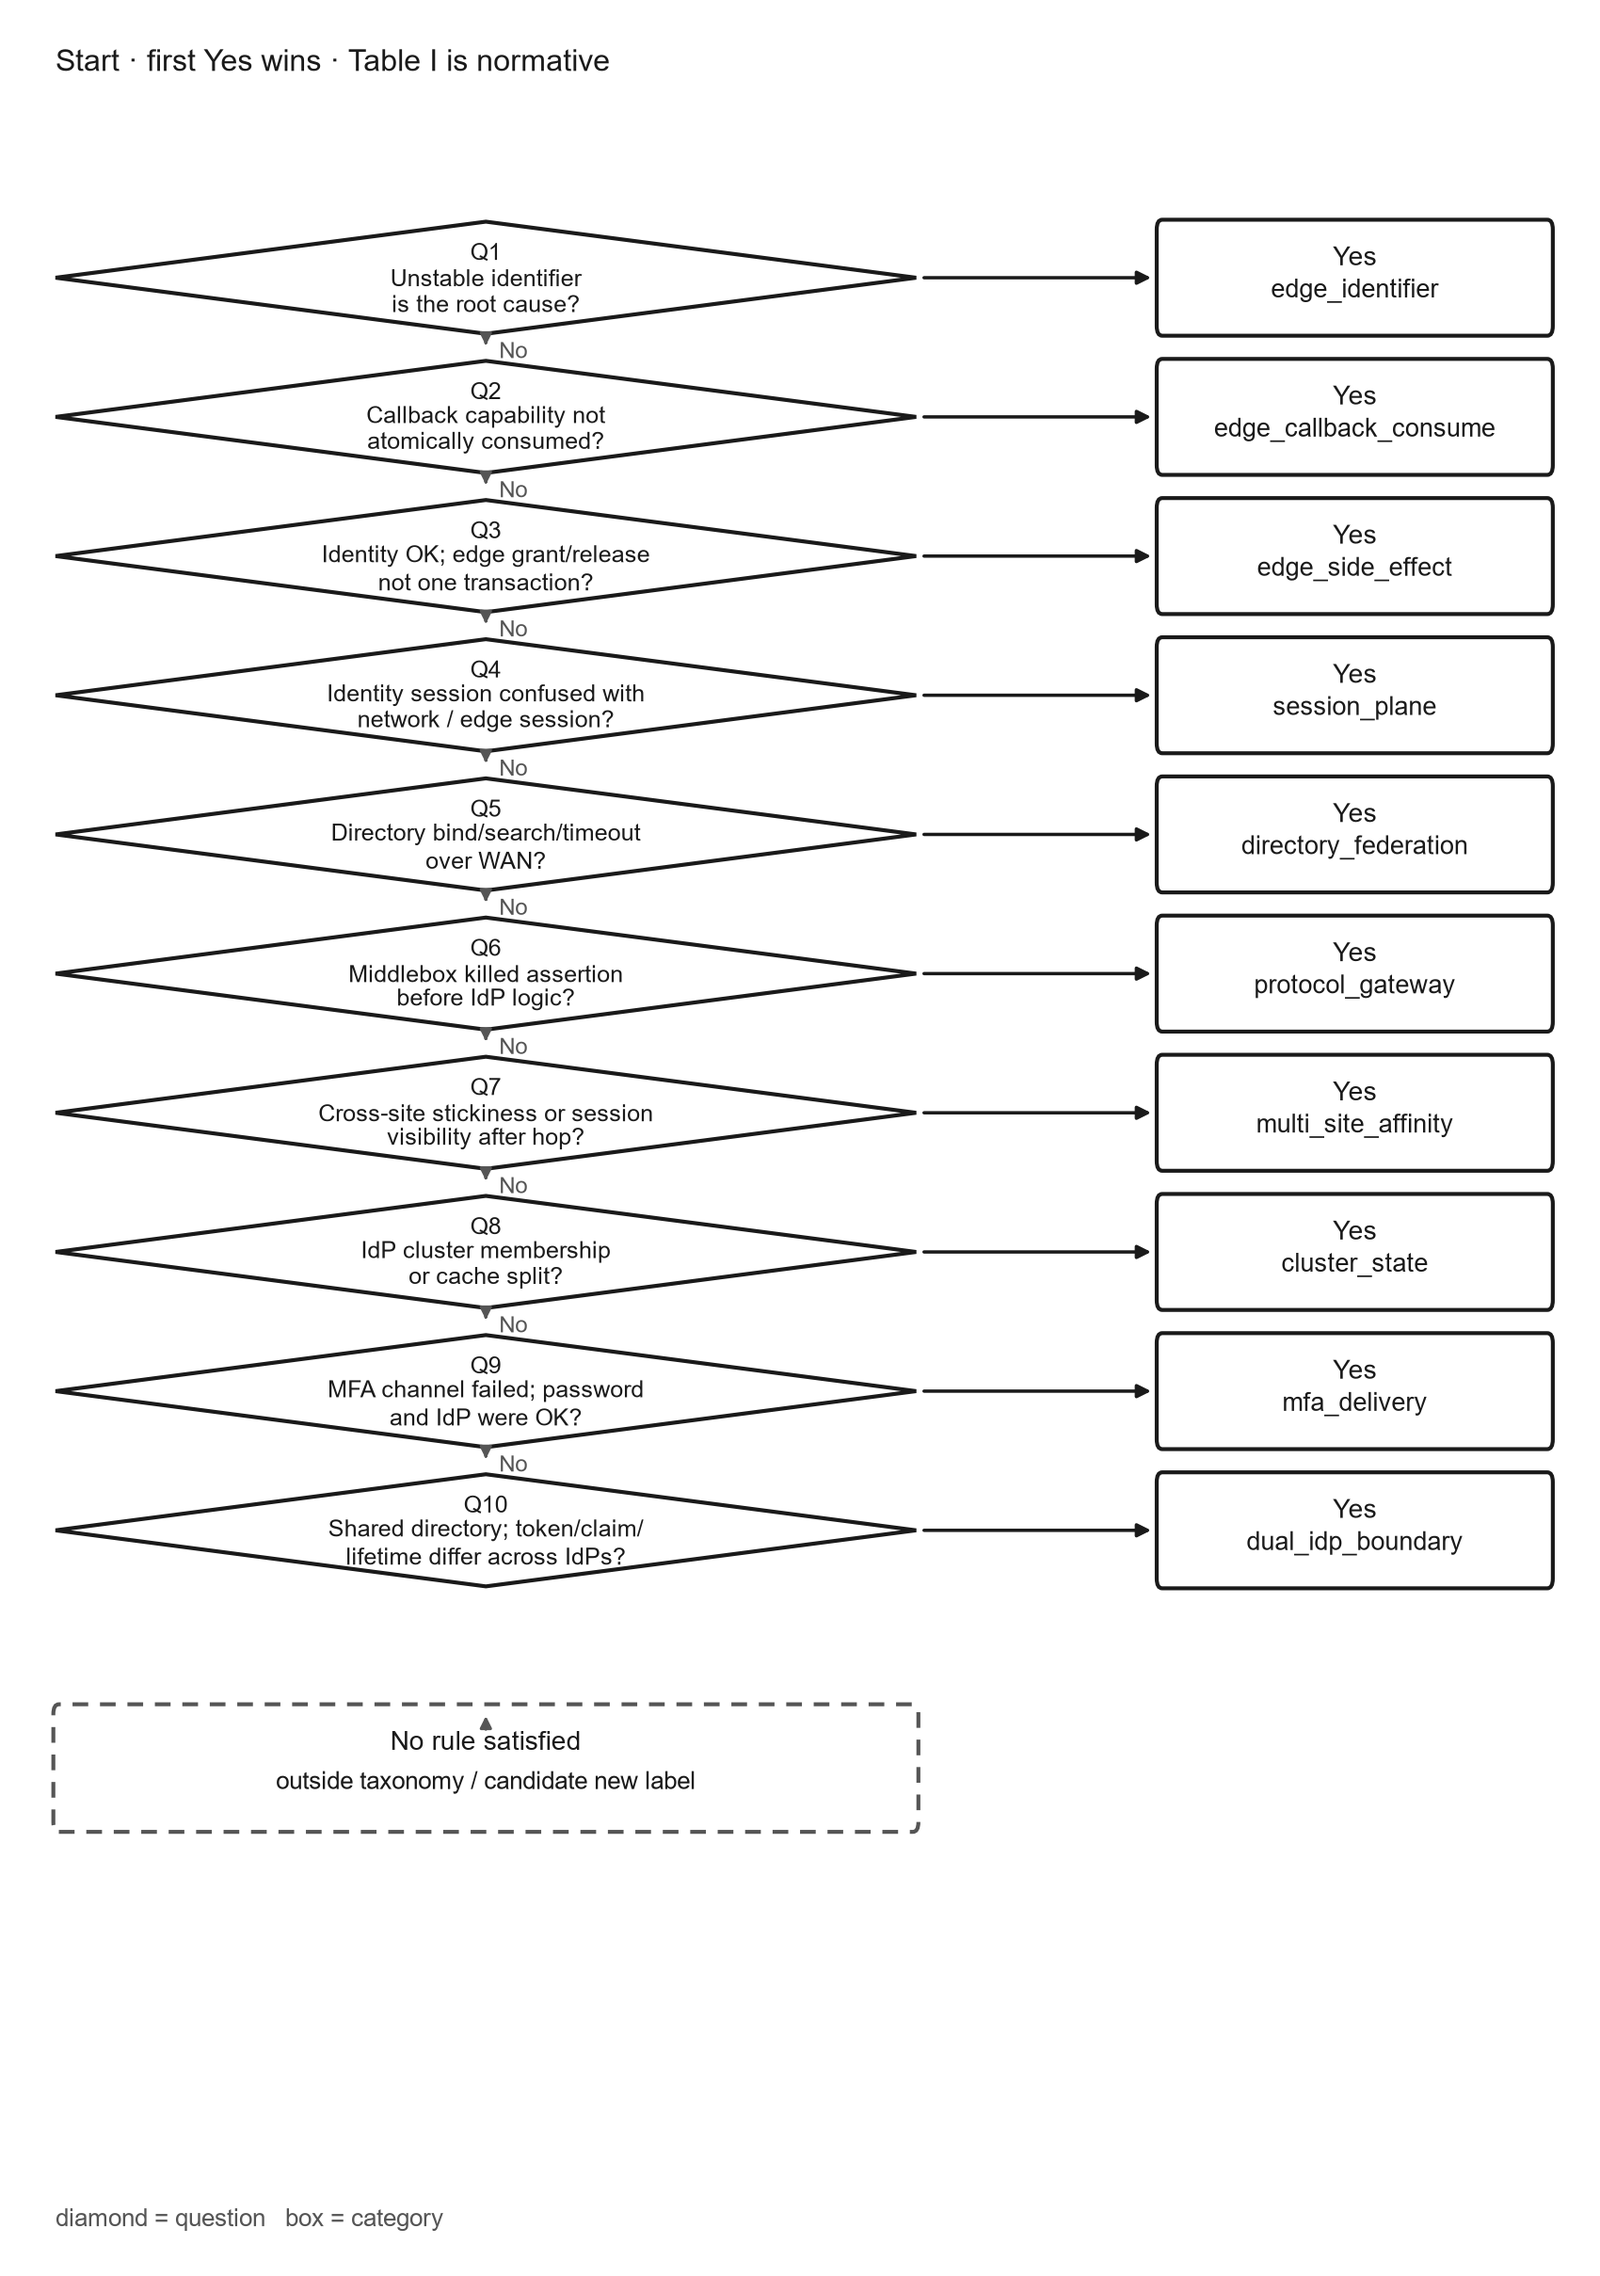
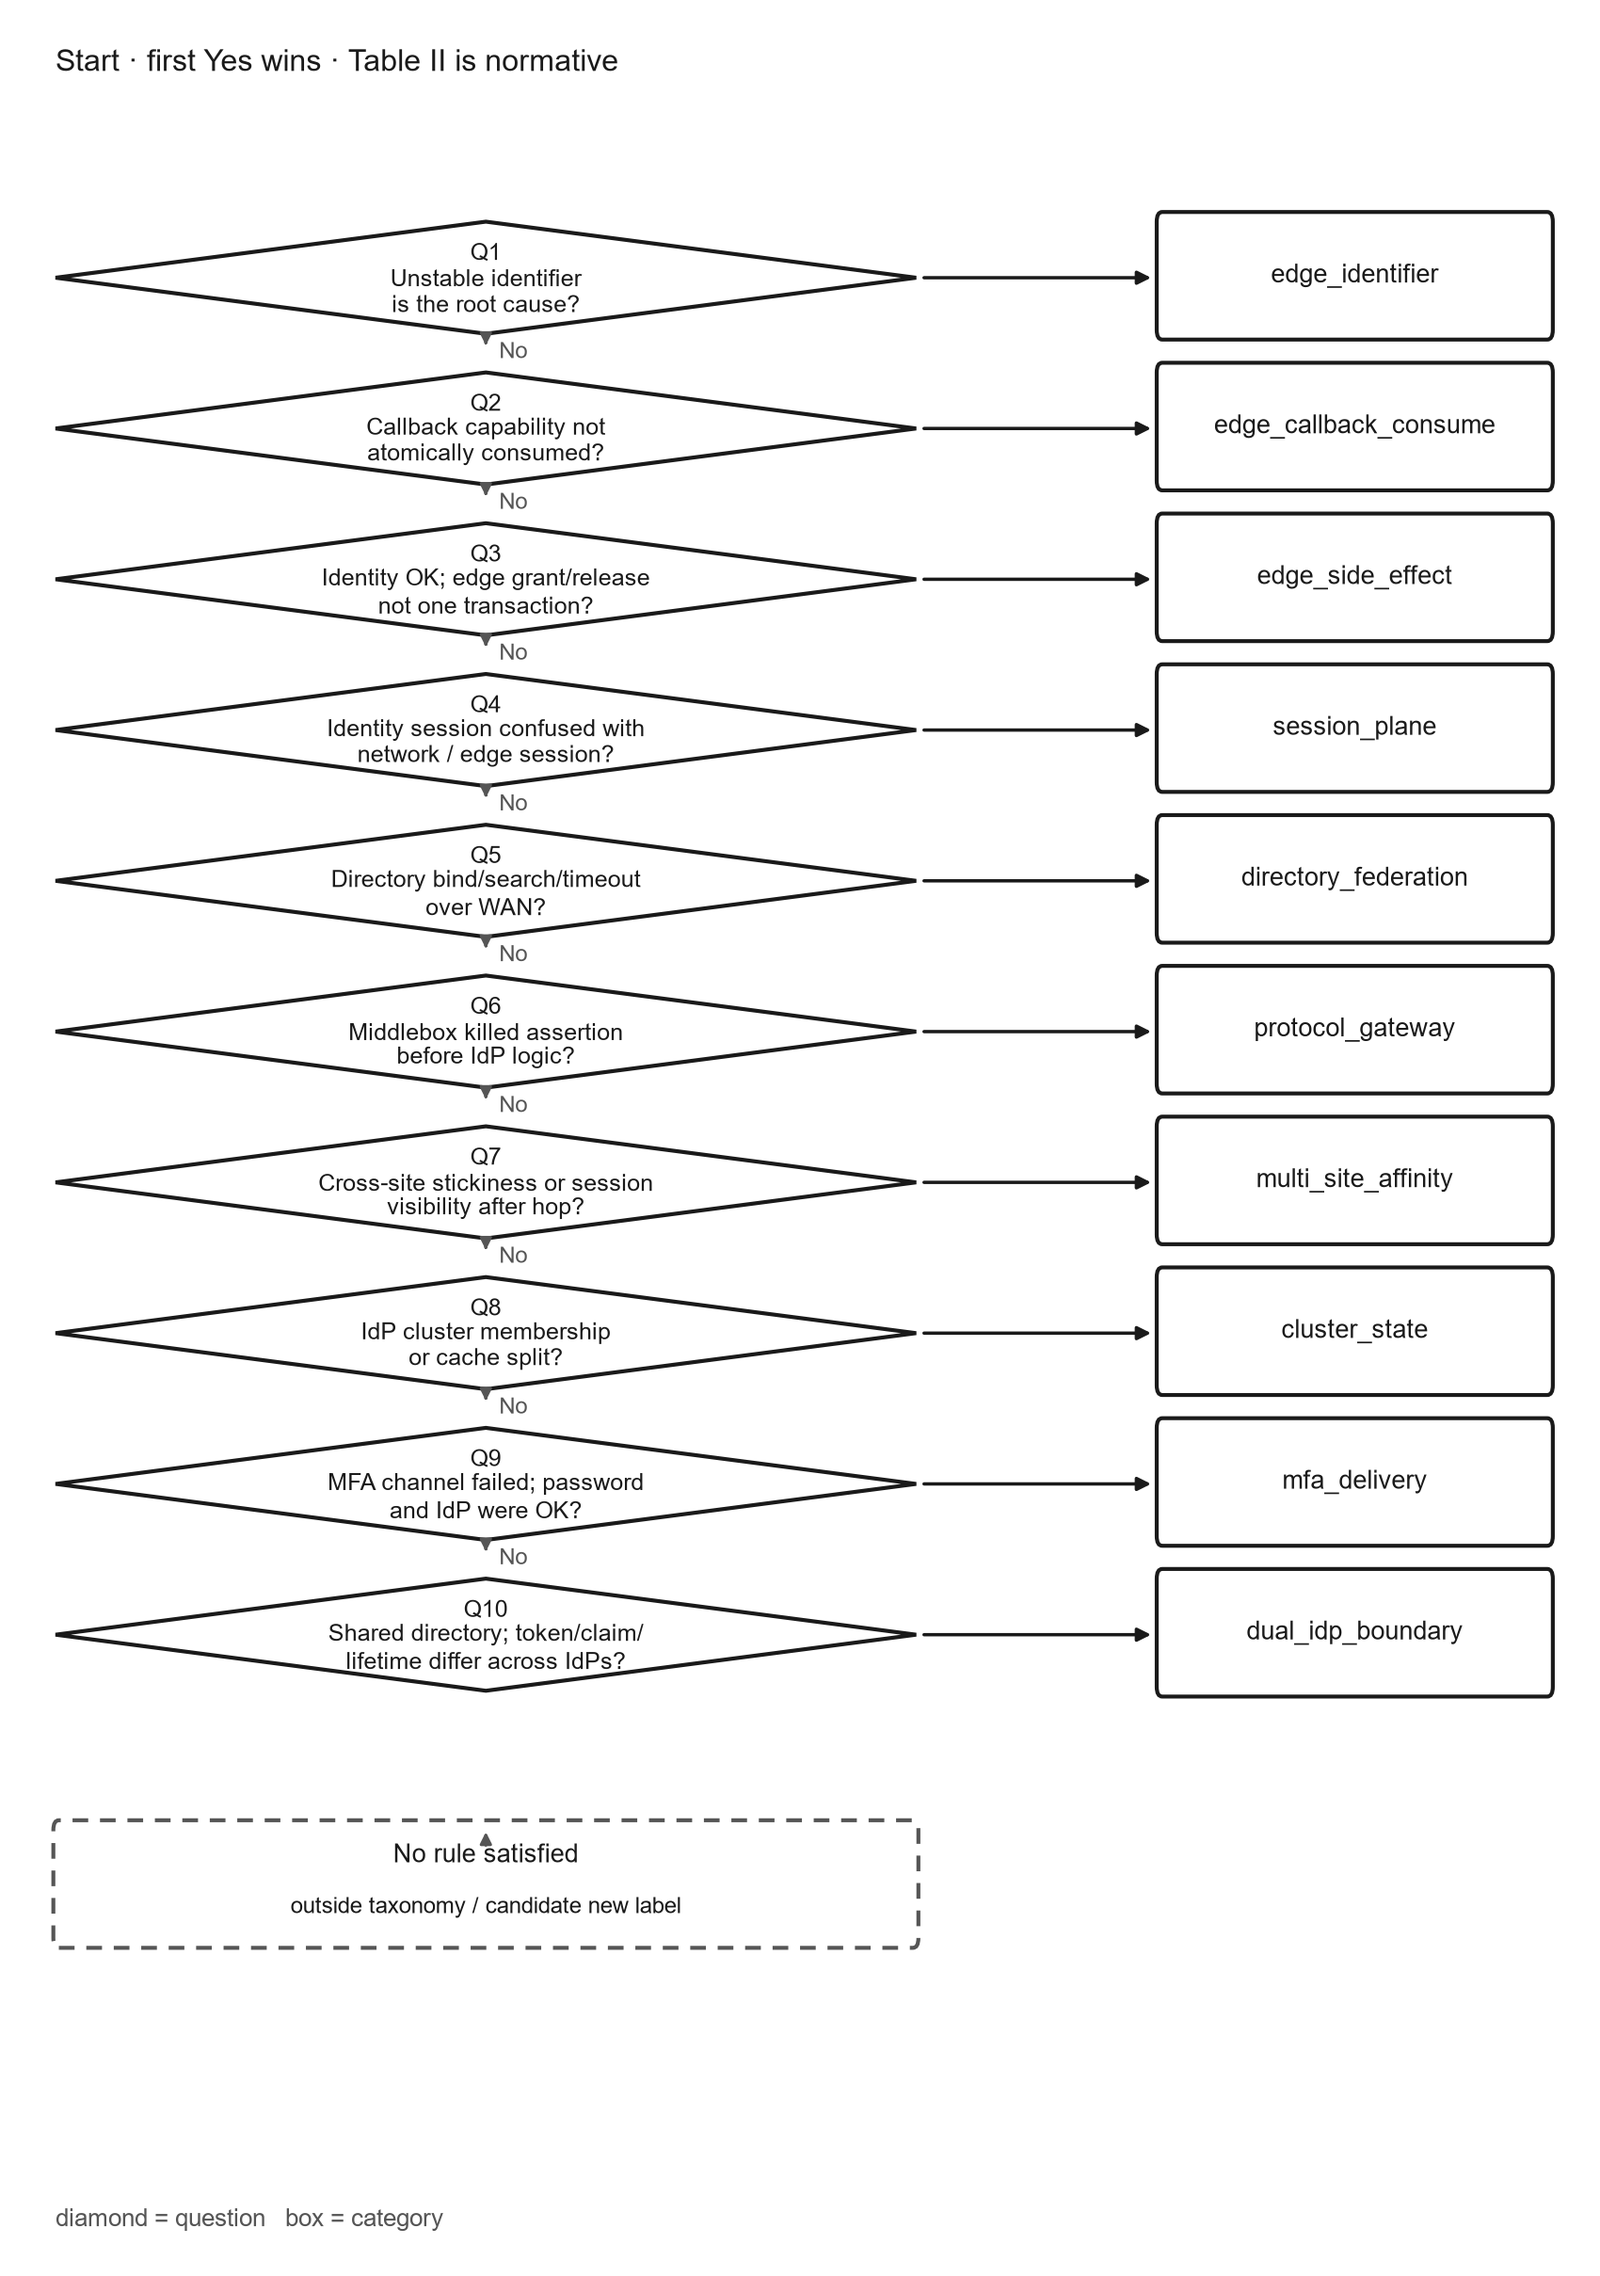
Release v1.0.12: figure render fix and Table VIII tracking.
Regenerate Fig. 1-3 PNGs with corrected label spacing and badge placement; track manuscript Table VIII in docs; add replicated-store production extension to SCHEDULES.md.

diff --git a/docs/TAGS.md b/docs/TAGS.md
@@ -4,7 +4,8 @@ Cite a tag, never floating `main`.
 
 | Tag | Role |
 | --- | --- |
-| `v1.0.11` | **Manuscript cite pin** for IEEE Access submission (Gates pass). Sequential table numbering I–VII; `operational_priority_class` mapping in `incidents.json`; figure ideal pass. Version DOI `10.5281/zenodo.22215468`. |
+| `v1.0.12` | **Manuscript cite pin** (submit pass). Figure render fix; Table VIII tracking; `SCHEDULES.md` production extension. Wire new Zenodo version DOI into manuscript Availability / ref [28] after GitHub release. |
+| `v1.0.11` | Gates pass. Sequential table numbering I–VII; `operational_priority_class` mapping; figure ideal pass (content). Version DOI `10.5281/zenodo.22215468`. |
 | `v1.0.10` | **CITATION.cff policy fix.** `url:` and `identifiers` use concept DOI only (`10.5281/zenodo.21950901`). Version DOI belongs in the manuscript, not in the artifact metadata. |
 | `v1.0.9` | **IEEE Access / Zenodo cite pin** for manuscript Availability and ref [28]. Version DOI `10.5281/zenodo.22214839`. Tag snapshot's `CITATION.cff` still carried v1.0.8 DOI — superseded by v1.0.10 policy. |
 | `v1.0.9.1` | Superseded post-tag DOI wire attempt; do not cite this tag in the paper. |

diff --git a/harness/SCHEDULES.md b/harness/SCHEDULES.md
@@ -40,3 +40,7 @@ Threat model (narrow): the harness models an edge callback capability that an at
 - Not a model of clustered replication, multi-primary writes, or failover.
 - “One step” without atomic single-winner semantics at the relevant consistency scope is insufficient; the atomic schedule requires atomic get-and-delete at the callback-consistency scope.
 - TTL expiry / TTL mismatch relative to callback RTT is in the category definition; this harness focuses on consume interleaving, not a full TTL simulator.
+
+## Production extension (not modelled)
+
+Extending single-winner consume across a replicated store requires a primitive that is linearizable at the callback-consistency scope: compare-and-swap on a versioned key, a fencing token carried into the release action, or a lease-based single-writer partition for the callback keyspace. Under partition or failover, where the consume outcome cannot be determined, the endpoint fails closed and rejects the callback.

diff --git a/CHANGELOG.md b/CHANGELOG.md
@@ -1,5 +1,14 @@
 # Changelog
 
+## 1.0.12 — 2026-09-01
+
+Submit-pass: figure render fix, Table VIII tracking, replicated-store production extension.
+
+- **Figures.** Fix `build_figures.py` label spacing, callout badge placement, Fig. 3 three-panel single-row layout; regenerate PNGs.
+- **Manuscript alignment.** Table VIII (protocol artifact contrast) tracked in `docs/MANUSCRIPT-TABLES.md` and `incidents.json` → `manuscript_tables`.
+- **Harness.** `harness/SCHEDULES.md` adds "Production extension (not modelled)" for replicated-store consume primitives.
+- **README** cite pin → `v1.0.12`.
+
 ## 1.0.11 — 2026-08-31
 
 Manuscript Gates pass: sequential IEEE table numbering and operational-priority mapping. No taxonomy, category assignments, or reliability values changed.

diff --git a/docs/MANUSCRIPT-TABLES.md b/docs/MANUSCRIPT-TABLES.md
@@ -11,5 +11,6 @@ Sequential table numbers in the submitted manuscript (31 Aug 2026 Gates pass):
 | **Table V** | Practitioner checklist | `codebook/checklist.json` |
 | **Table VI** | Prior-work comparison | manuscript only |
 | **Table VII** | F5 threat model | manuscript only |
+| **Table VIII** | Protocol and edge callback artifact contrast | manuscript only |
 
 Earlier artifact releases used non-sequential numbering (evidence classes as Table VI). From this revision onward, the manuscript uses normal IEEE ordering and the artifact tracks it via `incidents.json` → `manuscript_tables`.

diff --git a/README.md b/README.md
@@ -6,7 +6,7 @@ It is **not** a production identity provider.
 
 License: MIT · [`LICENSE`](LICENSE) · [`CITATION.cff`](CITATION.cff)
 
-https://github.com/kazuru-chidumbwe/sso-failure-taxonomy - cite tag `v1.0.9` (or its Zenodo version DOI), not floating `main`.
+https://github.com/kazuru-chidumbwe/sso-failure-taxonomy — cite tag `v1.0.12` (or its Zenodo version DOI), not floating `main`.
 
 ## What is in the archive
 
